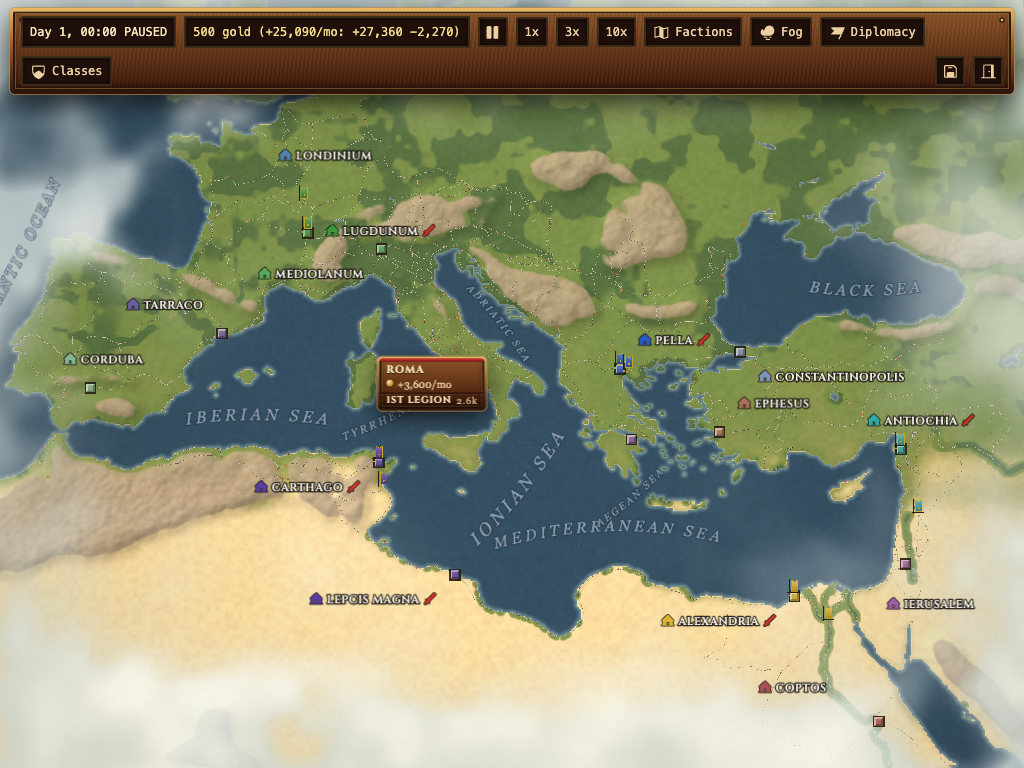
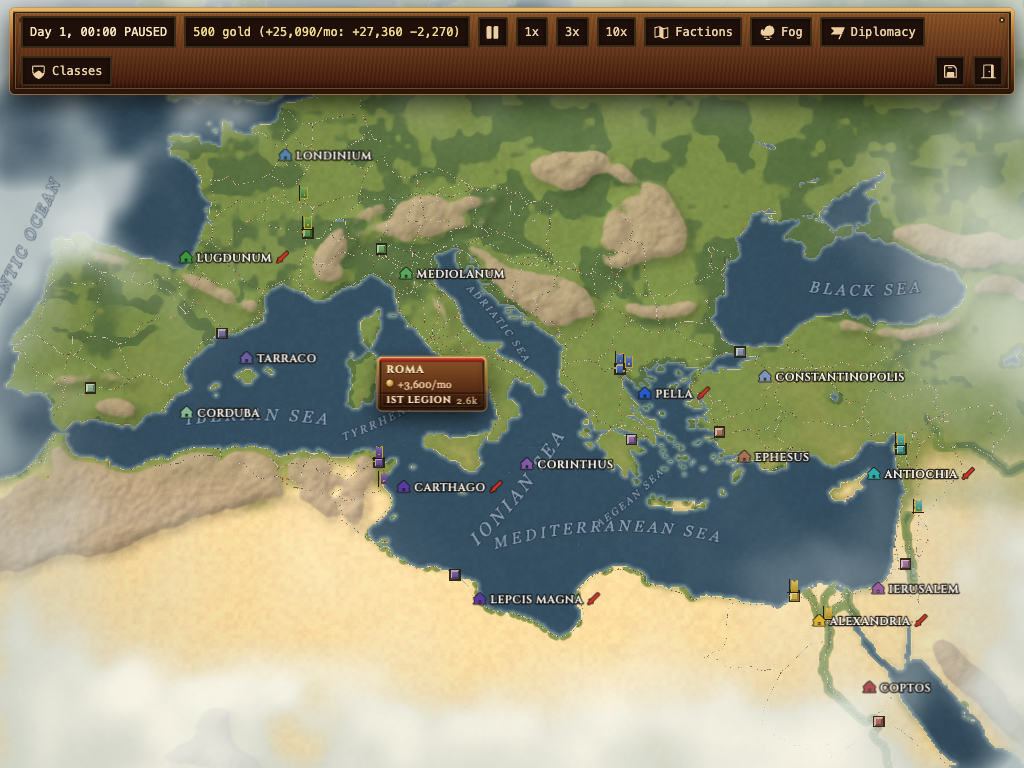
campaign-map-bugs 04b: city labels hug their markers, never chase dry ground
David's rule: a city label just sits on its city; only sea/ocean names do
land-aware placement. Slice 04's scorer put labels 'on land' by letting them
detach far from the marker (Corinthus across the gulf, Tarraco up the coast) —
the wrong trade.

Now the city-label candidate set is ring-1 only (OVERVIEW_LABEL_RING_SCALES
= [1]) and placeCityLabel takes the first non-colliding hug position with NO
water scoring — detachment is structurally impossible (at most one marker-
clearance away, or hidden). Deleted the dry-ground path: the bestPlacement/
render-mask block, CITY_LABEL_MAX_WATER_FRACTION, anchoredLabelWorldSamples,
and the now-unused camera arg of arbitrateLabelOccupancy. Coastal names may
read partly over water by design (they sit on their city); the probe's
cityLabels landFraction is informational, not a gate.

Sea labels unchanged and verified still fully on water; scenery/cards/marker
probe gates unchanged; battle firewall = the 13 documented pre-existing only.
Re-blessed the two city-label-moved baselines (whole-political, frame-tall).

diff --git a/packages/game-renderer/src/campaign/mapPass.ts b/packages/game-renderer/src/campaign/mapPass.ts
@@ -2042,7 +2042,7 @@ function buildLabelAtlas(
       height: Math.max(1, Math.ceil((seaPath?.height ?? style.size * (subText ? 2.42 : 1.55)) + style.padding * 2)),
     };
   });
-  const collision = arbitrateLabelOccupancy(measured, camera, dpr, placement);
+  const collision = arbitrateLabelOccupancy(measured, dpr, placement);
   const layoutEntries = collision.entries;
   const atlasWidth = measured.some((entry) => entry.width > 1024) ? 2048 : 1024;
   let x = 0;
@@ -2148,10 +2148,6 @@ function buildLabelAtlas(
   };
 }
 
-// Sample step over an anchored label's drawn rect, CSS px. Fine enough that a
-// city name a few glyphs long still gets several samples per glyph.
-const ANCHORED_LABEL_SAMPLE_STEP_PX = 10;
-
 // A fading label is a ghost, not readable ink: below this opacity it draws but
 // neither claims occupancy nor culls against anyone (labels pop less through
 // their fade bands than if a near-invisible engraving could hide a city name).
@@ -2187,7 +2183,6 @@ interface OccupancyClaim {
  */
 function arbitrateLabelOccupancy(
   labels: MeasuredCampaignLabel[],
-  camera: CameraSnapshot,
   dpr: number,
   placement: CampaignLabelPlacementStyle | undefined,
 ) {
@@ -2243,7 +2238,7 @@ function arbitrateLabelOccupancy(
         cull(entry);
         continue;
       }
-      const rect = placeCityLabel(entry, claims, camera, dpr, placement);
+      const rect = placeCityLabel(entry, claims, dpr);
       if (!rect) {
         cull(entry);
         continue;
@@ -2268,25 +2263,18 @@ function arbitrateLabelOccupancy(
   };
 }
 
-// Wettest ink a displaced city label freely accepts. Occupancy pressure must
-// not re-open B2 (city ink on open water): a label pushed off its ground by a
-// card or engraving may take a spot up to this wet — or as wet as its own
-// UNCONSTRAINED best (the pre-09 placement, which covers the exempted
-// CORINTHUS isthmus read) — and hides rather than draw wetter than both.
-const CITY_LABEL_MAX_WATER_FRACTION = 0.25;
-
-/** City-label placement (B2/B8 + slice 09): walk the emitter's
- * preference-ordered candidates, drop the ones whose ink rect lands on
- * claimed ground, and pick among the survivors through the one placement
- * scorer (isBadAt = water). The first candidate is the tiebreak, so inland
- * labels with clear ground never churn; null means every open spot is claimed
- * or too wet to draw on. */
+/** City-label placement (slice 09 occupancy only): a city label always hugs
+ * its marker — it never scores its candidates against the render mask (only
+ * sea names chase dry ground, per David's rule). Walk the emitter's
+ * preference-ordered hug candidates (attached position first) and take the
+ * first whose ink rect lands on unclaimed ground, so an unobstructed label
+ * keeps the classic attached anchor and a blocked one dodges to another side
+ * of the SAME marker. null means every hug position is claimed → the label
+ * hides rather than detach. */
 function placeCityLabel(
   entry: MeasuredCampaignLabel,
   claims: OccupancyClaim[],
-  camera: CameraSnapshot,
   dpr: number,
-  placement: CampaignLabelPlacementStyle | undefined,
 ): ScreenRect | null {
   const candidates =
     entry.label.placementCandidates && entry.label.placementCandidates.length > 0
@@ -2299,37 +2287,19 @@ function placeCityLabel(
             screenAnchorY: entry.label.screenAnchorY ?? 'center',
           } satisfies CampaignLabelAnchor,
         ];
-  const scored = candidates.map((candidate) => ({
-    candidate,
-    rect: candidateInkRect(entry, candidate, dpr),
-  }));
-  const open = scored.filter(
-    ({ rect }) => !claims.some((claim) => rectsOverlap(rect, claim.rect)),
-  );
-  if (open.length === 0) return null;
-  let winner = open[0];
-  if (placement) {
-    const isWaterAt = (x: number, y: number) => placement.renderSurfaceAt(x, y) === 'water';
-    const samplesOf = ({ candidate }: (typeof scored)[number]) =>
-      anchoredLabelWorldSamples(entry, candidate, camera, dpr);
-    const verdict = bestPlacement(open, samplesOf, isWaterAt);
-    if (!verdict) return null;
-    if (verdict.badFraction > CITY_LABEL_MAX_WATER_FRACTION) {
-      // Wetter than the free threshold: only draw if occupancy is not to
-      // blame — the unconstrained best (the pre-09 placement) is just as wet.
-      const unconstrained = bestPlacement(scored, samplesOf, isWaterAt);
-      if (!unconstrained || verdict.badFraction > unconstrained.badFraction + 1e-6) return null;
-    }
-    winner = verdict.candidate;
+  for (const candidate of candidates) {
+    const rect = candidateInkRect(entry, candidate, dpr);
+    if (claims.some((claim) => rectsOverlap(rect, claim.rect))) continue;
+    entry.offsetX = candidate.screenOffsetX * dpr;
+    entry.offsetY = candidate.screenOffsetY * dpr;
+    entry.label = {
+      ...entry.label,
+      screenAnchorX: candidate.screenAnchorX,
+      screenAnchorY: candidate.screenAnchorY,
+    };
+    return rect;
   }
-  entry.offsetX = winner.candidate.screenOffsetX * dpr;
-  entry.offsetY = winner.candidate.screenOffsetY * dpr;
-  entry.label = {
-    ...entry.label,
-    screenAnchorX: winner.candidate.screenAnchorX,
-    screenAnchorY: winner.candidate.screenAnchorY,
-  };
-  return winner.rect;
+  return null;
 }
 
 /** Ink rect (CSS px AABB) of a measured label at its current anchor. */
@@ -2375,39 +2345,6 @@ function inkRectAt(
   return cornersAabb(corners);
 }
 
-/** Sample grid over the candidate's ink rect — the atlas rect deflated by its
- * halo padding, i.e. the visible icon + glyph band (device px, axis-aligned —
- * anchored labels never rotate) — mapped to ground-plane world points through
- * the real camera so the scored footprint is exactly the visible one. The
- * padding stays out of the score: it is transparent margin, and counting it
- * would push coastal labels off their cities for water nobody sees. */
-function anchoredLabelWorldSamples(
-  entry: MeasuredCampaignLabel,
-  candidate: CampaignLabelAnchor,
-  camera: CameraSnapshot,
-  dpr: number,
-): [number, number][] {
-  const centerX =
-    entry.screenX +
-    anchorCenterOffsetX(candidate.screenAnchorX, candidate.screenOffsetX * dpr, entry.width);
-  const centerY =
-    entry.screenY +
-    anchorCenterOffsetY(candidate.screenAnchorY, candidate.screenOffsetY * dpr, entry.height);
-  const inkWidth = Math.max(1, entry.width - entry.style.padding * 2);
-  const inkHeight = Math.max(1, entry.height - entry.style.padding * 2);
-  const stepPx = ANCHORED_LABEL_SAMPLE_STEP_PX * dpr;
-  const cols = Math.max(6, Math.ceil(inkWidth / stepPx));
-  const rows = Math.max(3, Math.ceil(inkHeight / stepPx));
-  const samples: [number, number][] = [];
-  for (let iy = 0; iy < rows; iy++) {
-    const sy = centerY + inkHeight * ((iy + 0.5) / rows - 0.5);
-    for (let ix = 0; ix < cols; ix++) {
-      const sx = centerX + inkWidth * ((ix + 0.5) / cols - 0.5);
-      samples.push(screenToWorld(camera, sx, sy));
-    }
-  }
-  return samples;
-}
 
 /** Screen offset from the label's anchor point to its rect center: a 'left'
  * X-anchor means the rect's left edge sits at anchor+offset, so the center is

diff --git a/web/src/campaign/renderer.ts b/web/src/campaign/renderer.ts
@@ -1028,9 +1028,10 @@ function campaignCityLabels(
     const edgeX = horizontalEdgeOffset(edge.x(node.pos[0]));
     const edgeY = verticalEdgeOffset(edge.y(node.pos[1]));
     const reliefPx = cityReliefRisePx(field, opts, node.pos, cam);
-    // Anchor placement is land-aware (B2/B8): the emitter only authors the
-    // preference-ordered candidates; the label pass scores their measured
-    // rects against the render mask and keeps the first mostly-land one.
+    // A city label hugs its marker, always (David's rule): the emitter authors
+    // the attached anchor first, then its mirrors around the same marker as
+    // collision alternates. The label pass never scores these against the
+    // render mask — only sea names care about dry ground.
     const anchors = overviewMarkerLabel
       ? overviewCityLabelAnchors(node.tier, edgeX, edgeY)
       : closeupCityLabelAnchors(
@@ -1057,12 +1058,13 @@ function campaignCityLabels(
   return labels;
 }
 
-// Marker-clearance rings for overview anchor candidates, in units of the
-// marker's outer-edge clearance. Ring 1 is the classic attached look; the
-// outer rings only win when no ring-1 placement is clean (a whole-map label
-// box spans hundreds of km — isthmus cities like Corinthus have no clean
-// adjacent spot), trading a little detachment for ink on land.
-const OVERVIEW_LABEL_RING_SCALES = [1, 2.2, 3.6];
+// Marker-clearance ring for overview anchor candidates, in units of the
+// marker's outer-edge clearance. A city label always hugs its marker (the
+// eight ring-1 positions are the only candidates); the alternates exist purely
+// so slice-09 occupancy can dodge to another side of the SAME marker, never to
+// detach. City labels do NOT chase dry ground — only sea names do (David's
+// rule): a coastal name may sit partly over water, but it stays on its city.
+const OVERVIEW_LABEL_RING_SCALES = [1];
 
 /** Overview (marker-attached) city-label anchor candidates: the classic
  * below-right of the square marker first (the tiebreak — inland labels never
@@ -1134,10 +1136,9 @@ function overviewCityLabelAnchors(
 // still reads as attached to its city rather than floating beside it.
 const CLOSEUP_LABEL_MARKER_TIE_PX = 14;
 
-/** Closeup city labels sit centered under the model; when a long coastal
- * name's centered box runs into the sea (B8), slide it sideways at the same
- * relief-aware height so the seaward edge pulls back ashore. Above the model
- * (centered, then slid) is the last resort. */
+/** Closeup city labels sit centered under the model; the sideways slides and
+ * the above-model positions are collision alternates only (slice 09), reached
+ * when the centered spot is claimed — never to chase dry ground. */
 function closeupCityLabelAnchors(
   edgeX: number,
   belowY: number,

diff --git a/specs/campaign-map-bugs/tools/README.md b/specs/campaign-map-bugs/tools/README.md
@@ -39,6 +39,12 @@ What it measures:
 - City labels: the drawn city icon+name rects exported by the renderer
   (`visibleCityLabelRects`), deflated to the ink band (the exported `padPx`
   halo margin is transparent), sampled through `renderLandAt` per framing.
+  Its `landFraction` is INFORMATIONAL only, not a gate (04b/David's rule): a
+  city label always hugs its marker and never chases dry ground — a coastal
+  name is *expected* to sit partly over water. Non-detachment is guaranteed
+  structurally, not by a threshold: the emitter's only candidates are the
+  ring-1 hug positions (`OVERVIEW_LABEL_RING_SCALES = [1]`), so a city label
+  is at most one marker-clearance from its square or hidden — never adrift.
 - City cards: visible DOM city card rect corners plus center are converted
   through `screenToWorld` and sampled with `renderLandAt`.
 - Scenery: the renderer's full static candidate set
@@ -64,14 +70,13 @@ Green meanings by slice:
   at either framing, except named port exemptions; every city center stays
   land with the re-baked margin.
 - Slice 03: sea labels are at least `0.95` water, so `landFraction <= 0.05`.
-- Slice 04: every visible city icon+label ink rect is mostly-land
-  (`landFraction >= 0.95`) at both framings, and the visible-label counts stay
-  at the pre-placement baseline (whole-map 10, regional 21 — no collision
-  bloodbath). One named exemption: CORINTHUS at the whole-map framing holds
-  `>= 0.80` — its label box spans ~270 km at that zoom and a measured offset
-  sweep found no `>= 0.95` placement within 100 px of the isthmus marker
-  (first fully-clean spot is ~285 km away, which would be the worse
-  label-detached class).
+- Slice 04 (superseded by 04b — David's rule): a city label hugs its marker,
+  full stop; it does NOT chase dry ground (only sea names do). The gate is
+  non-detachment, guaranteed structurally by the ring-1-only candidate set —
+  not a land-fraction threshold. `cityLabels[].landFraction` is informational:
+  coastal names (CORINTHUS, TARRACO, coastal ports) legitimately read partly
+  over water because they sit on their city. Visible-label counts still stay
+  at the pre-placement baseline (no collision bloodbath).
 - Slice 06: `scenery.onWaterTotal` and `scenery.footprintOverWaterTotal` are
   both 0, and `scenery.total` stays within 10% of the pre-gate baseline
   10,791 (no mass extinction).

diff --git a/specs/campaign-map-bugs/slices/04-city-labels.md b/specs/campaign-map-bugs/slices/04-city-labels.md
@@ -127,3 +127,25 @@ on evidence and record.
 ## Firewalls
 - No per-city special cases; no DOM involvement; army/faction emitters
   untouched; a second placement implementation is a review-reject.
+
+## 04b — reversal (David's rule, 2026-07-04)
+Slice 04's land-aware anchoring overcorrected: to put a label on dry ground the
+scorer let it detach far from its marker (CORINTHUS across the gulf, TARRACO up
+the coast). David's rule: **a city label just hugs its marker, always — only
+sea/ocean names care about dry ground.** So the land-aware placement is gone for
+city labels:
+- `OVERVIEW_LABEL_RING_SCALES` = `[1]` (was `[1, 2.2, 3.6]`): the only candidates
+  are the eight ring-1 hug positions around the marker. Detachment is now
+  structurally impossible — a city label is at most one marker-clearance from its
+  square, or hidden.
+- `placeCityLabel` no longer scores candidates by water (the `bestPlacement`/
+  render-mask block, `CITY_LABEL_MAX_WATER_FRACTION`, and
+  `anchoredLabelWorldSamples` are deleted). It takes the first hug position whose
+  ink rect is unclaimed — so an unobstructed label keeps the classic attached
+  anchor and a blocked one dodges to another side of the SAME marker (slice-09
+  collision), never away.
+- A coastal name (CORINTHUS, TARRACO, ports) may now read partly over water —
+  that is correct: it sits on its city. The probe's `cityLabels[].landFraction`
+  becomes informational, not a gate (see tools/README.md).
+The B2/B8 originals stay fixed (labels no longer float in open sea away from
+their cities) — just by hugging instead of by scoring.

diff --git a/specs/campaign-map-bugs/slices/09-collision.md b/specs/campaign-map-bugs/slices/09-collision.md
@@ -155,3 +155,12 @@ proceed on evidence and record the priority order chosen.
 - No z-index/CSS stacking hacks as a collision substitute; no label recoloring;
   cards report, never arbitrate privately; visibility changes only, never
   color.
+
+## 04b reconciliation (2026-07-04)
+The occupancy authority is unchanged, but its city-label water guard is now moot:
+04b removed dry-ground scoring from `placeCityLabel`, so occupancy picks the
+first non-colliding hug candidate (ring-1 only) with NO water comparison. City
+labels can no longer be pushed onto/away-from water by occupancy — they dodge to
+another side of the same marker or hide. `CITY_LABEL_MAX_WATER_FRACTION` and the
+`camera` param of `arbitrateLabelOccupancy` are gone. Card-vs-card, faction/army
+yield order, and the ordering pin are untouched.
